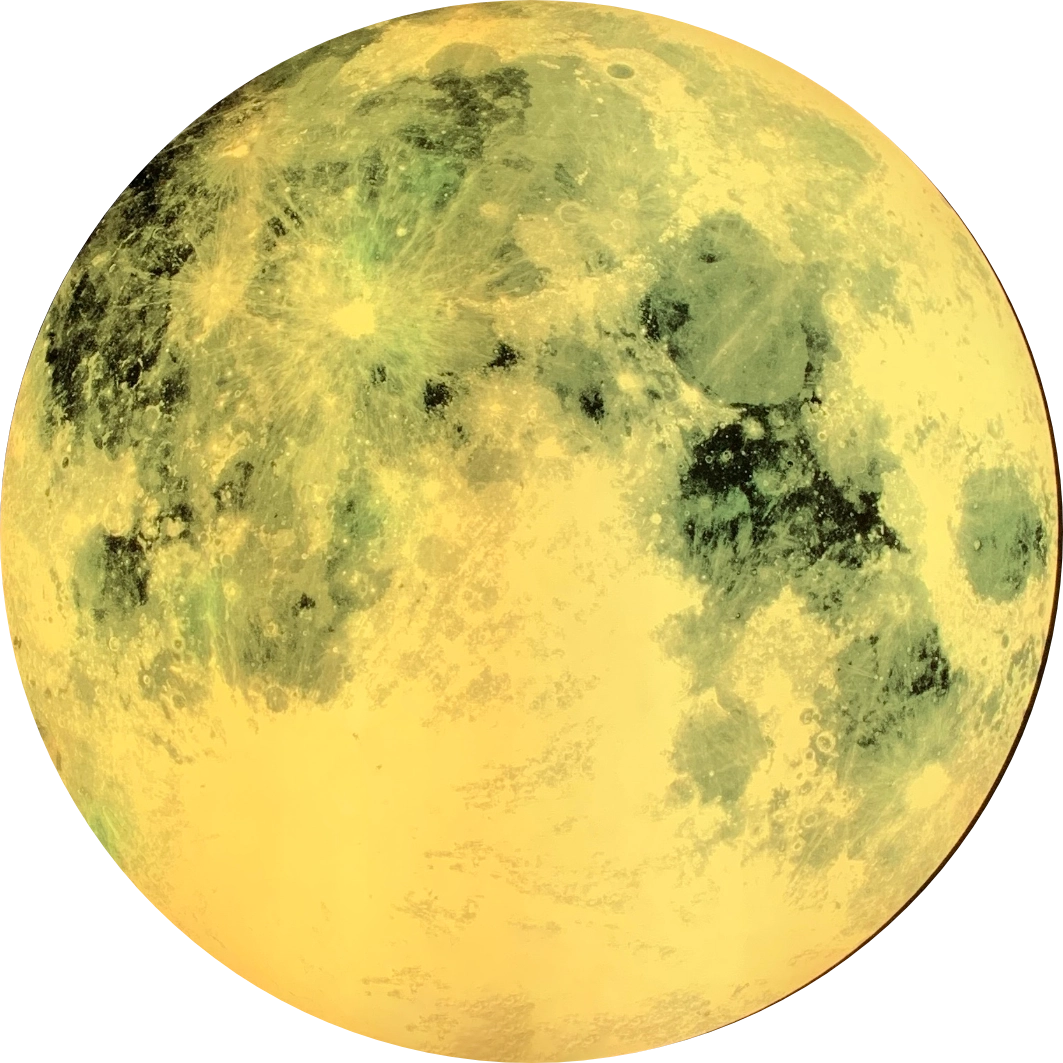
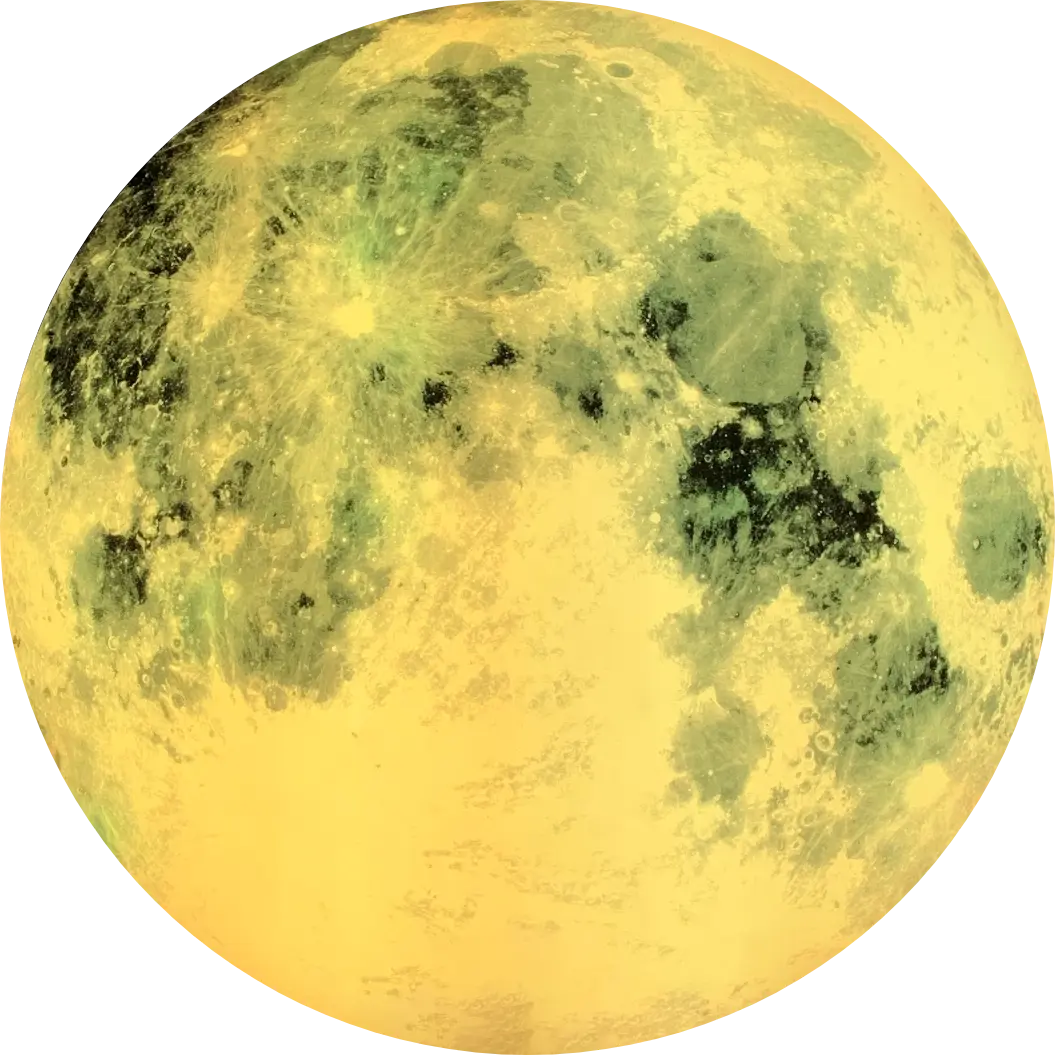
månen drejer for saten

diff --git a/style.css b/style.css
@@ -1,4 +1,4 @@
-/* De generelle css regler, der gælder for alt (pånær forsiden) */
+/* ----------------------------------Mobilversion de generelle----------------------------- */
 
 @font-face {
   font-family: "cormorant";
@@ -148,7 +148,7 @@ nav #menu {
   display: none;
 }
 
-/* Mobil versionen af Index */
+/* ----------------------------------Mobilversion index-siden----------------------------- */
 
 #index #first_section {
   background-image: url(billeder/forside.webp);
@@ -196,7 +196,7 @@ nav #menu {
   font-family: cormorant;
 }
 
-/* Mobil versionen af WORK - generelle ting */
+/* ----------------------------------Mobilversion work-siden----------------------------- */
 
 #overskrift_wrapper {
   display: grid;
@@ -218,8 +218,12 @@ nav #menu {
   margin-top: 10vw;
 }
 
-#work p {
+#work .section_wrapper {
   margin-bottom: 35vw;
+}
+
+#work p {
+  margin-top: 3vw;
 }
 
 /* Mobil versionen af WORK - første sektion */
@@ -264,7 +268,7 @@ nav #menu {
   font-family: cormorant;
 }
 
-/* Mobil versionen af ABOUT */
+/* ----------------------------------Mobil-version about-siden----------------------------- */
 
 /* Tekt */
 #name_p {
@@ -313,7 +317,7 @@ nav #menu {
   place-content: center;
 }
 
-/* Ipad versionen */
+/* ----------------------------------Ipad-version----------------------------- */
 @media (min-width: 500px) {
   html {
     scroll-behavior: smooth;
@@ -325,6 +329,14 @@ nav #menu {
     height: auto;
   }
 
+  p {
+    font-size: 0.8rem;
+  }
+
+  h4 {
+    font-size: 1.7rem;
+  }
+
   #work #first_section a,
   #about #first_section a {
     font-size: 0.9rem;
@@ -333,16 +345,8 @@ nav #menu {
   #work .col_down {
     padding: 2vw 2vw 0vw 2vw;
   }
-
-  p {
-    font-size: 0.8rem;
-  }
-
-  h4 {
-    font-size: 1.7rem;
-  }
 }
-/* Desktop versionen */
+/* ----------------------------------Desktop-version----------------------------- */
 
 @media (min-width: 800px) {
   p {
@@ -350,6 +354,11 @@ nav #menu {
   }
   h4 {
     font-size: 2rem;
+  }
+
+  /* Fjerner burgermenuen på desktop-versionen */
+  header {
+    display: none;
   }
 
   /* Tilføjer navigationen på desktop-versionen */
@@ -360,12 +369,6 @@ nav #menu {
   hr {
     display: revert;
   }
-
-  /* Fjerner burgermenuen på desktop-versionen */
-  header {
-    display: none;
-  }
-
   /* Navigationen */
 
   .signatur {
@@ -426,6 +429,10 @@ nav #menu {
     gap: 4vw;
   }
 
+  #work p {
+    margin-top: 0vw;
+  }
+
   /* About-siden  */
   /* Kvalifikationsafsnit  */
 
@@ -437,5 +444,29 @@ nav #menu {
   }
   #about #kolonner figure {
     margin-top: 0.8vw;
+  }
+}
+
+/* ----------------------------------animationer----------------------------- */
+
+#moon {
+  z-index: -1;
+}
+
+.rotate {
+  animation-name: rotate_kf;
+  animation-duration: 60s;
+  animation-fill-mode: both;
+  animation-iteration-count: 1;
+  animation-timing-function: linear;
+}
+
+@keyframes rotate_kf {
+  0% {
+    transform: rotate(0deg);
+  }
+
+  100% {
+    transform: rotate(360deg);
   }
 }

diff --git a/work.html b/work.html
@@ -66,8 +66,9 @@
     </nav>
     <main id="work">
       <h2>Mine projekter</h2>
+
       <section id="first_section">
-        <figure><img src="billeder/moon.webp" alt="Moon" /></figure>
+        <figure id="moon"><img src="billeder/moon.webp" alt="Moon" /></figure>
         <div class="col_up">
           <h3><a href="work.html#second_section"> RO Chokolade</a></h3>
           <h3><a href="work.html#third_section"> Parkour</a></h3>
@@ -210,7 +211,7 @@
         /></a>
       </figure>
     </footer>
-
+    <script src="work.js"></script>
     <script src="javascript.js"></script>
   </body>
 </html>

diff --git a/about.html b/about.html
@@ -70,7 +70,7 @@
     <main id="about">
       <h2>Om mig</h2>
       <section id="first_section">
-        <figure><img src="billeder/portrait.png" alt="Moon" /></figure>
+        <figure><img src="billeder/portrait.webp" alt="Moon" /></figure>
       </section>
 
 <section id="second_section">

diff --git a/work.js b/work.js
@@ -1,0 +1,8 @@
+window.addEventListener("load", startRotation);
+
+function startRotation() {
+  console.log("startRotation");
+
+  //Starter måne-animationen
+  document.querySelector("#moon").classList.add("rotate");
+}
